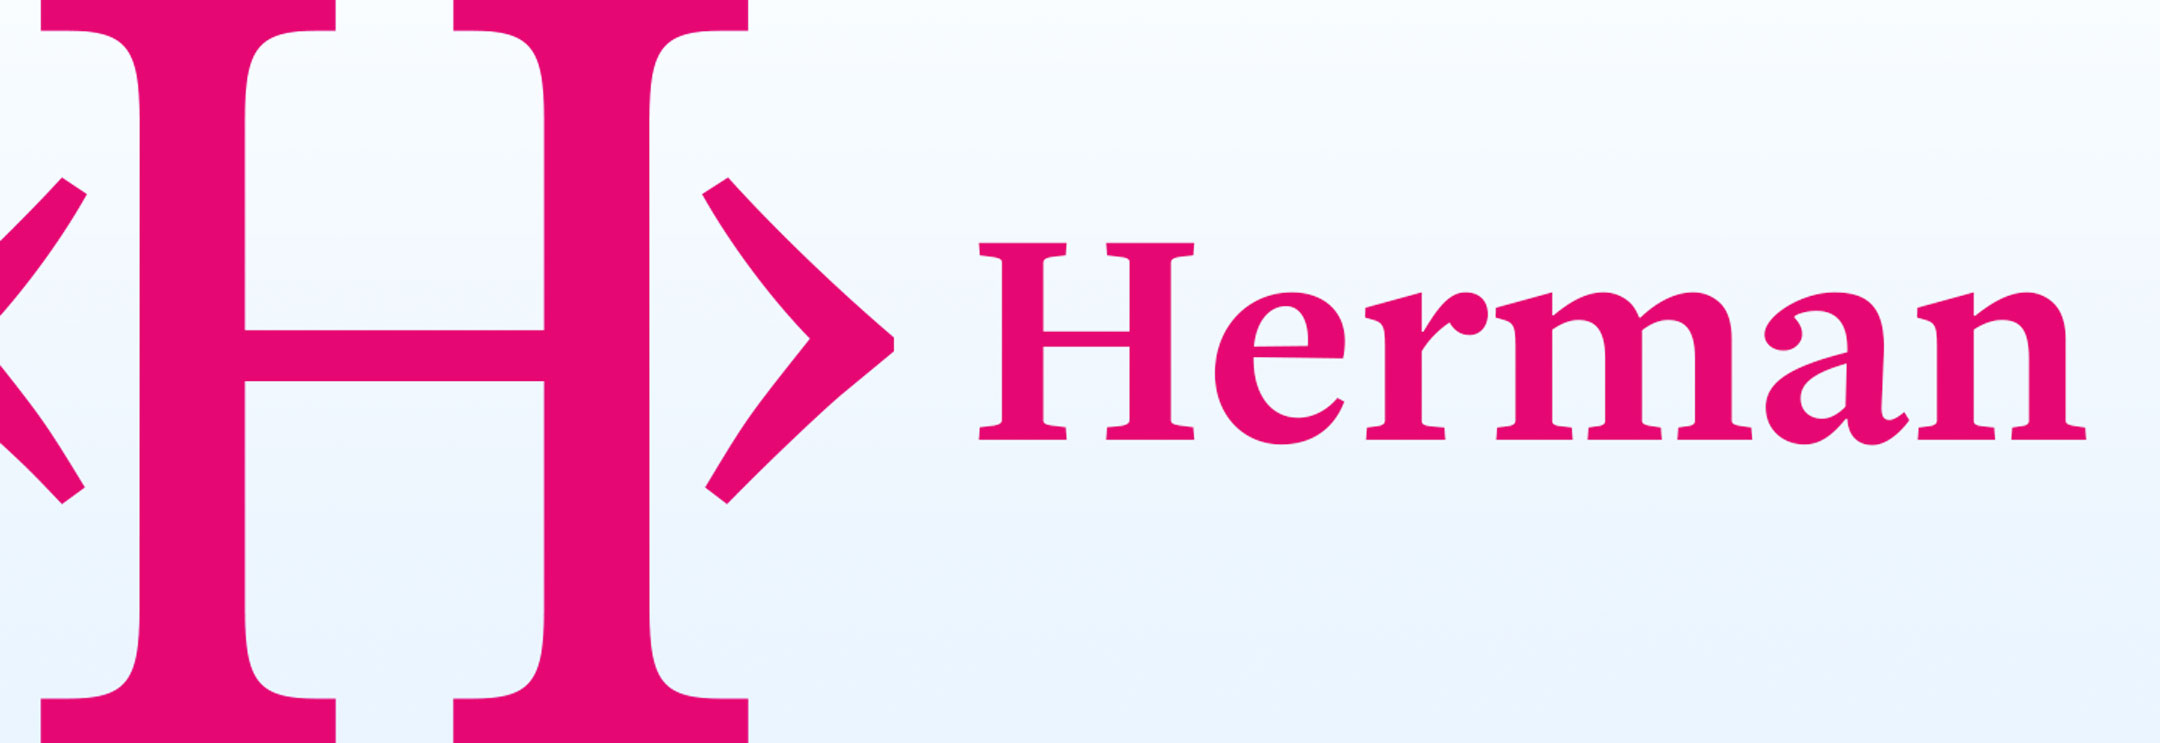
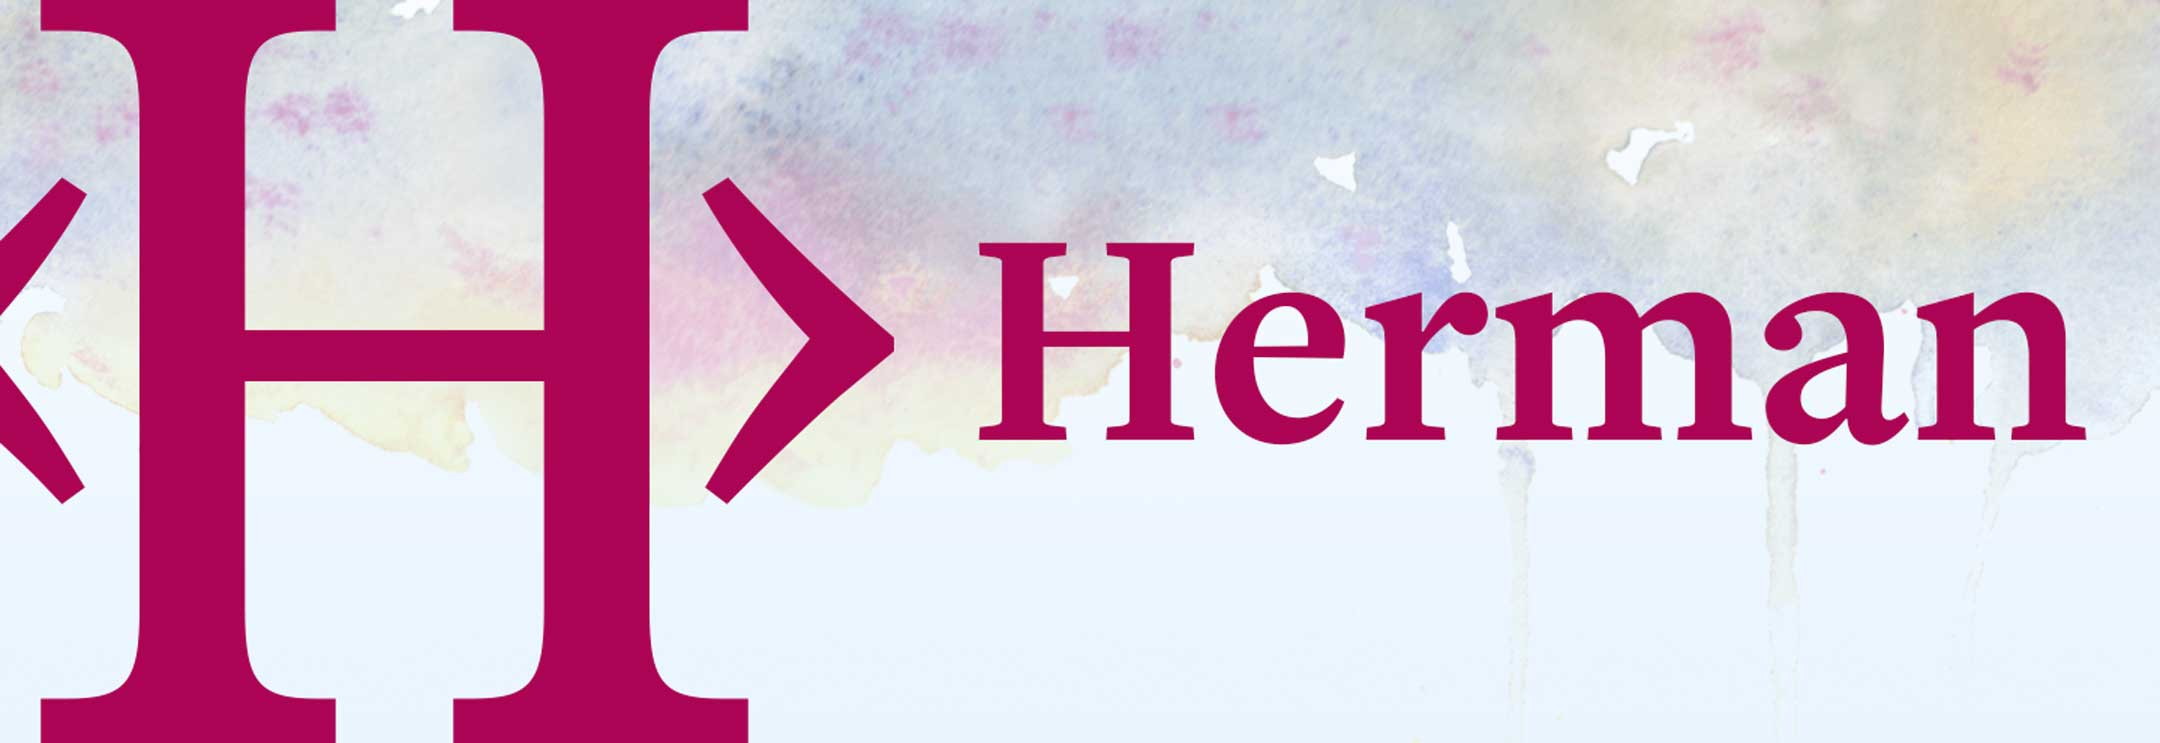
Create HermanSite similar to SusySite

diff --git a/static/sass/layout/_banner.scss b/static/sass/layout/_banner.scss
@@ -36,6 +36,16 @@
       color: color('brand-blue');
     }
   }
+
+  [data-location*='hermansite'] & {
+    #{$link} {
+      color: color('action-hover');
+    }
+
+    #{$focus} {
+      color: color('brand-blue');
+    }
+  }
 }
 
 
@@ -72,7 +82,8 @@
   }
 
   [data-location='home'] &,
-  [data-location='susysite'] & {
+  [data-location='susysite'] & ,
+  [data-location='hermansite'] & {
     animation: draw-logo 3s 1 ease-out both, fill-logo 3s 2s 1 ease-in-out both, fade-logo-outline 2s 2s 1 ease-in-out both;
   }
 
@@ -85,6 +96,13 @@
 
   [data-location='susysite'] & {
     stroke: color('brand-pink');
+    stroke-dasharray: 5000;
+    stroke-dashoffset: 5000;
+    stroke-width: 10;
+  }
+
+  [data-location='hermansite'] & {
+    stroke: color('action-hover');
     stroke-dasharray: 5000;
     stroke-dashoffset: 5000;
     stroke-width: 10;

diff --git a/templates/hermansite/layout.html b/templates/hermansite/layout.html
@@ -1,0 +1,20 @@
+{% extends "rst_display.html" %}
+
+{% import 'utility.macros.j2' as utility %}
+{% import 'layout/macros.j2' as layout %}
+
+{% block favicons %}
+  <link rel="shortcut icon" href="/static/images/favicons/favicon-herman.ico" />
+{% endblock %}
+
+{% block banner_logo %}
+  <a href="/herman/" class="logo-link">
+    {{ utility.icon('herman', alt='Herman', class='logo-icon') }}
+  </a>
+{% endblock %}
+
+{% block banner_nav %}
+  {% set nav = all_pages|filter_pages('slug', 'eq', 'herman/index')|get_page %}
+  {% set nav = nav.config.nav %}
+  {{ layout.main_nav(nav) }}
+{% endblock %}

diff --git a/static/sass/layout/_nav.scss b/static/sass/layout/_nav.scss
@@ -18,6 +18,10 @@
     margin-top: negative('shim');
   }
 
+  [data-location*='hermansite'] & {
+    margin-top: 0;
+  }
+
   .nav-item {
     display: inline-flex;
 
@@ -96,9 +100,12 @@ $nav-locations: (
   'speaking': 'about',
   'community': 'about',
   'contact': 'about',
+
   'susysite-sites': null,
   'susysite-articles': null,
   'susysite-styleguide': 'susysite-support',
+
+  'hermansite-articles': null,
 );
 
 // Highlight self and parent (if applicable)

diff --git a/templates/susysite/layout.html b/templates/susysite/layout.html
@@ -15,5 +15,7 @@
 {% endblock %}
 
 {% block banner_nav %}
-  {{ layout.main_nav(config.susy_nav) }}
+  {% set nav = all_pages|filter_pages('slug', 'eq', 'susy/index')|get_page %}
+  {% set nav = nav.config.nav %}
+  {{ layout.main_nav(nav) }}
 {% endblock %}

diff --git a/static/sass/patterns/_inverted.scss b/static/sass/patterns/_inverted.scss
@@ -15,4 +15,9 @@
     @include contrasted('brand-pink');
     @include link-color-for('brand-pink');
   }
+
+  [data-location*='hermansite'] & {
+    @include contrasted('action-hover');
+    @include link-color-for('action-hover');
+  }
 }

diff --git a/static/sass/patterns/_sections.scss b/static/sass/patterns/_sections.scss
@@ -29,6 +29,10 @@
     @include section-arrow('brand-pink');
   }
 
+  [data-location*='hermansite'] & {
+    @include section-arrow('action-hover');
+  }
+
   + [data-module] {
     @include before('') {
       display: none;

diff --git a/content/herman/index.rst b/content/herman/index.rst
@@ -1,9 +1,26 @@
 public: yes
-location: open-source
+location: 'hermansite'
+template: 'hermansite/layout.html'
 grid_template: true
+headline:
+  - title: 'Herman: Automated Pattern Libraries'
+    type: 'An **OddBird** Project'
+    tagline: "Documentation, or it didn't happen"
 logo: 'herman'
 image:
   - src: 'projects/herman.jpg'
+nav:
+  - text: 'hermansite-articles'
+    display_text: 'articles'
+    url: '/herman/articles/'
+  - text: 'source'
+    url: 'https://github.com/oddbird/sassdoc-theme-herman/issues'
+  - text: 'hermansite-docs'
+    display_text: 'docs'
+    url: '/herman/docs/'
+  - text: 'oddbird'
+    display_text: 'oddbird'
+    url: '/'
 project:
   - name: 'Herman'
     tagline: 'Automated Style Guides'
@@ -13,6 +30,13 @@ project:
 contributors:
   - author: 'oddbird'
     role: 'creators'
+quotes:
+  - text:
+      'Herman is my documentation dream come true,
+      especially when it comes to systems design'
+    name: 'Claudina Sarahe'
+    role: 'Frontend Architect'
+    slug: 'dream'
 brag: |
   Created by OddBird,
   Herman provides
@@ -34,8 +58,8 @@ summary: |
   .. _Sass Accoutrement: /open-source/accoutrement/
 
 
-Herman
-======
+Herman: Automated Pattern Libraries
+===================================
 
 .. ---------------------------------
 .. callmacro:: content.macros.j2#rst

diff --git a/content/susy/index.rst b/content/susy/index.rst
@@ -8,6 +8,34 @@ headline:
 logo: 'susy'
 image:
   - src: 'projects/susy.png'
+nav:
+  - text: 'susysite-articles'
+    display_text: 'articles'
+    url: '/susy/articles/'
+  - text: 'susysite-support'
+    display_text: 'support'
+    subnav:
+      - text: 'docs'
+        display_text: 'reference documentation'
+        url: '/susy/docs/'
+      - text: 'github'
+        display_text: 'github issues'
+        url: 'https://github.com/oddbird/susy/issues'
+      - text: 'stack-overflow'
+        display_text: 'stack overflow'
+        url: 'http://stackoverflow.com/questions/tagged/susy-sass'
+      - text: 'twitter'
+        display_text: 'twitter'
+        url: 'http://twitter.com/sasssusy/'
+      - text: 'susysite-styleguide'
+        display_text: 'brand styleguide'
+        url: '/susy/styleguide/'
+  - text: 'susysite-sites'
+    display_text: 'sites'
+    url: '/susy/sites/'
+  - text: 'oddbird'
+    display_text: 'oddbird'
+    url: '/'
 project:
   - name: 'Susy'
     tagline: 'Your design, our math'

diff --git a/content/herman/articles.rst b/content/herman/articles.rst
@@ -1,0 +1,24 @@
+public: yes
+location: 'hermansite-articles'
+template: 'hermansite/layout.html'
+grid_template: true
+hide_title: true
+headline:
+  - type: 'Herman Articles'
+    tagline: 'What people are saying about Herman…'
+summary: |
+  **There are many ways to use Herman**.
+  As we write or discover new articles and videos,
+  we’ll add them here.
+
+
+Articles, Podcasts, & Tutorials
+===============================
+
+.. callmacro:: content.macros.j2#link_list
+  :title: 'Herman 1.x'
+  :tag: 'Herman'
+
+.. callmacro:: content.macros.j2#get_quotes
+  :page: 'herman/index'
+  :slug: 'dream'

diff --git a/content/contact/index.rst b/content/contact/index.rst
@@ -23,7 +23,7 @@ social:
     after: 'by Email'
 cta_footer:
   - title: 'Start the conversation…'
-    susytitle: 'Partner with OddBird on Your Next Project'
+    project_title: 'Partner with OddBird on Your Next Project'
     contact: 'miriam'
     action:
       text: 'Schedule a call with %s'
